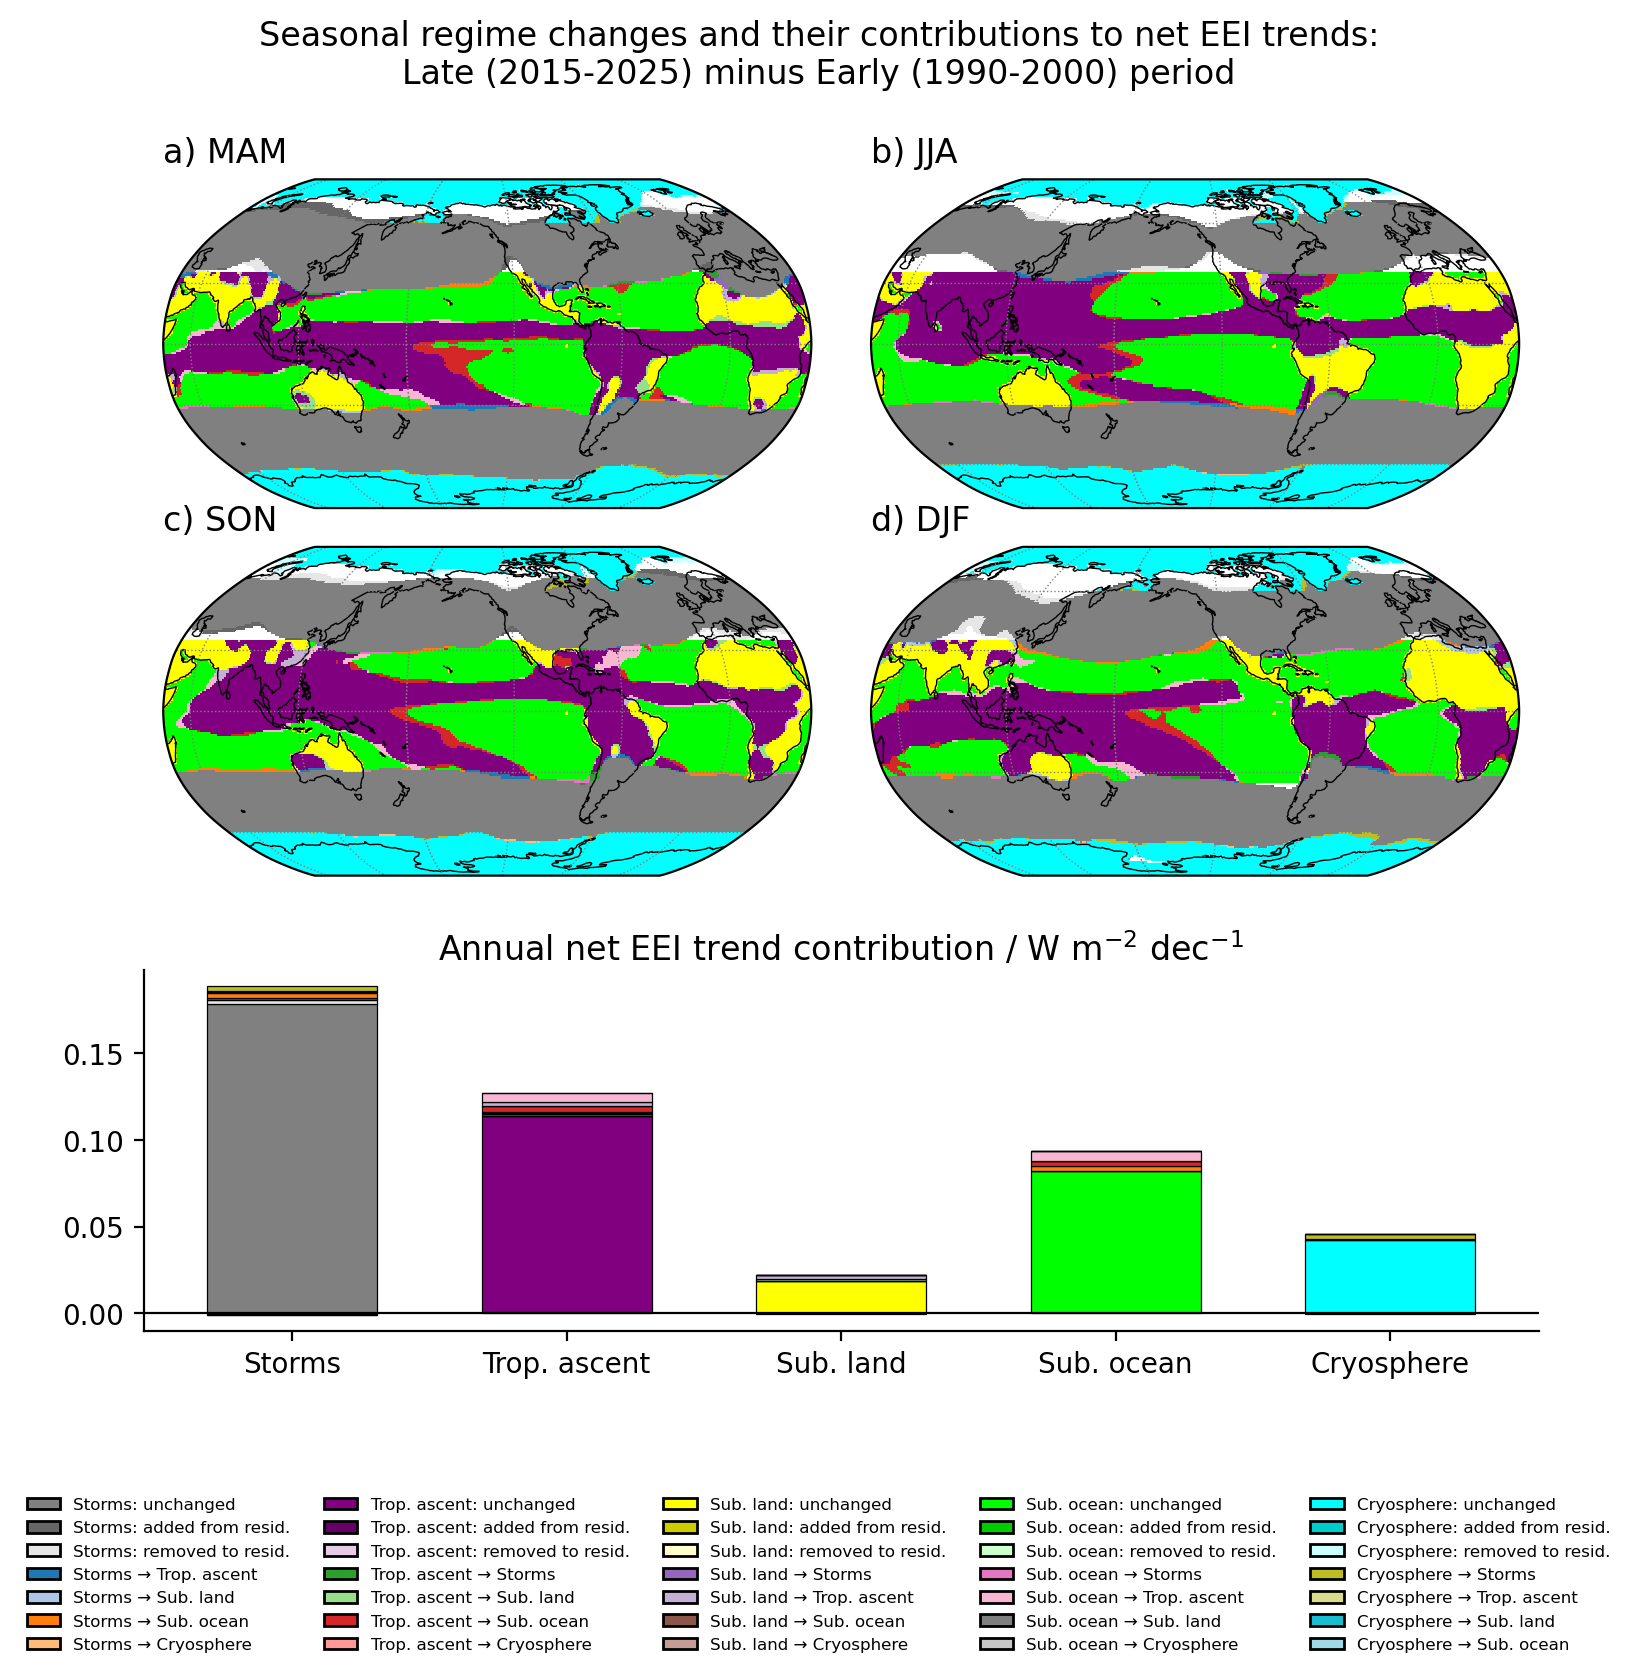
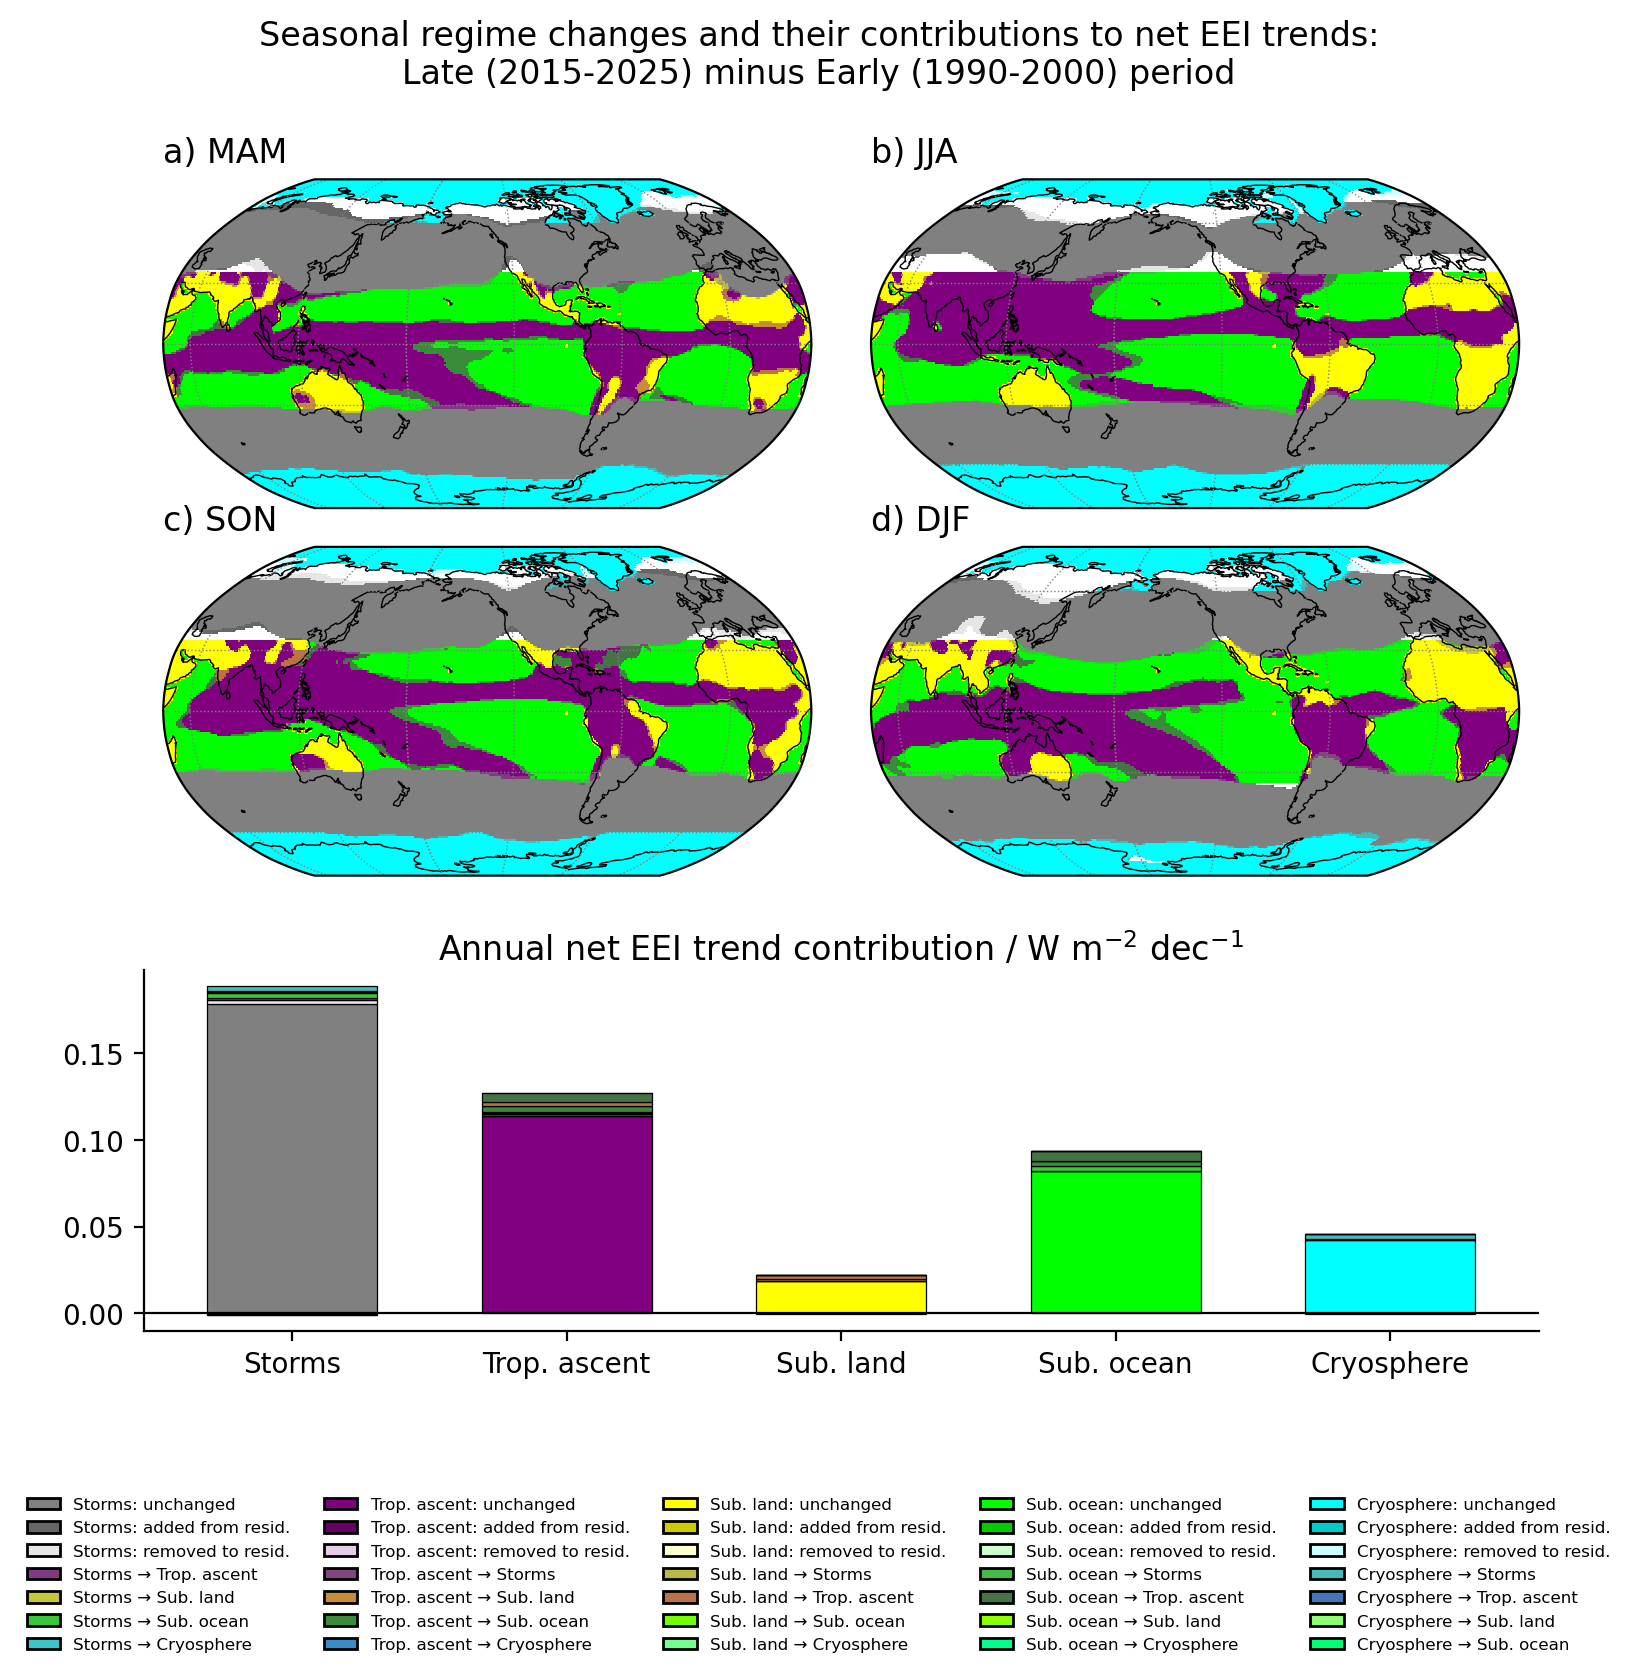
trying to make colors a little prettier

diff --git a/make_figs/regime_changes.py b/make_figs/regime_changes.py
@@ -178,6 +178,17 @@ def _transition_label(name):
     return f"{REGIME_LABELS[source]} → {REGIME_LABELS[destination]}"
 
 
+def _transition_color(source, destination):
+    source_color = _status_color(source, "unchanged")
+    destination_color = _status_color(destination, "unchanged")
+
+    source_rgb = np.asarray(mcolors.to_rgb(source_color))
+    destination_rgb = np.asarray(mcolors.to_rgb(destination_color))
+
+    return mcolors.to_hex(
+        0.45 * source_rgb + 0.55 * destination_rgb
+    )
+
 def _category_definitions(early, late):
     definitions = []
     for regime in REGIMES:
@@ -206,10 +217,9 @@ def _category_definitions(early, late):
         )
 
     transition_colors = {}
-    palette = plt.get_cmap("tab20").colors
-    for index, name in enumerate(_transition_names()):
+    for name in _transition_names():
         source, destination = name.split("_to_")
-        transition_colors[name] = mcolors.to_hex(palette[index])
+        transition_colors[name] = _transition_color(source, destination)
         definitions.append(
             (
                 name,
